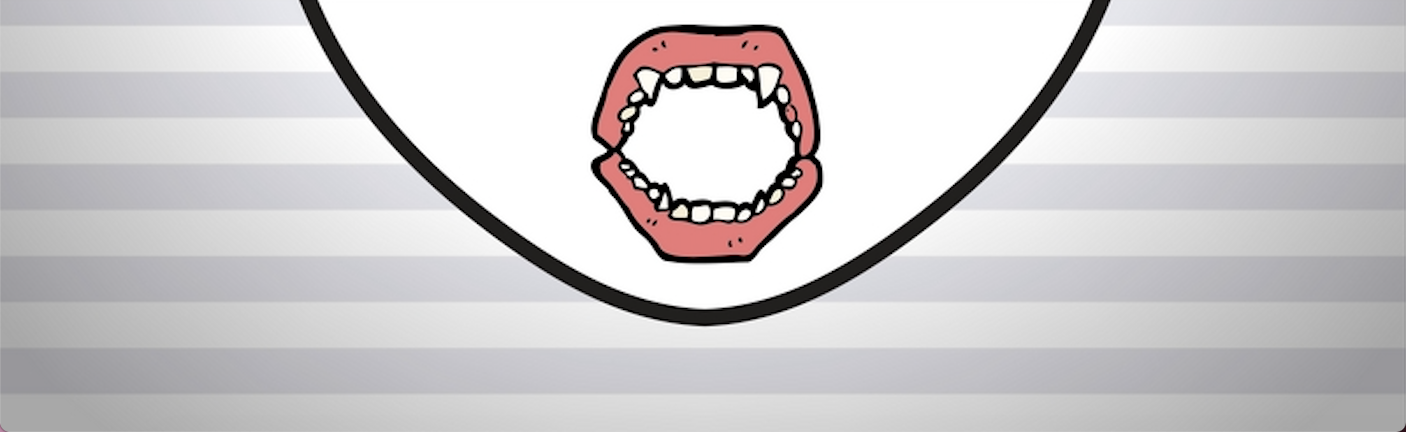
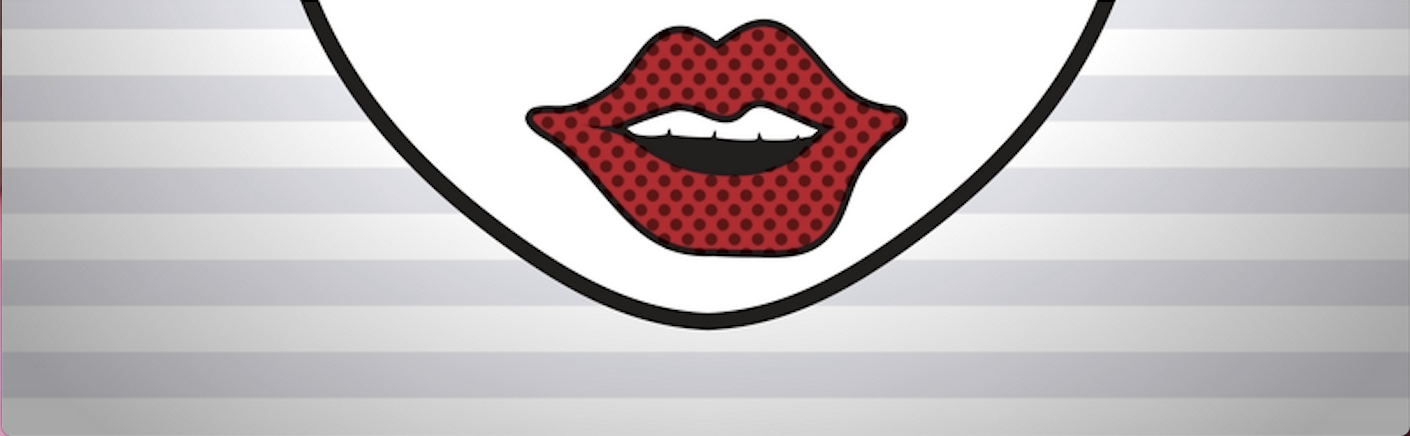
game works with new graphics

diff --git a/index.html b/index.html
@@ -50,14 +50,16 @@
         <img src="./images/icons/eye.png" alt="Eye">
         <select id="eyes-select" name="eyes" placeholder="eyes">
           <option value="eyesplaceholder" disabled selected>Select eyes</option>
-          <option value="eyes-1">Fluttery eyes</option>
+          <option value="eyes-1">Purple eyelashes</option>
           <option value="eyes-2">Blue eyes</option>
           <option value="eyes-3">Brown eyes</option>
-          <option value="eyes-4">Grey eyes</option>
+          <option value="eyes-4">Brown eyes with eyebrows</option>
           <option value="eyes-5">Green eyes</option>
-          <option value="eyes-6">Brown fluttery eyes</option>
+          <option value="eyes-6">Big blue eyes</option>
           <option value="eyes-7">Round blue eyes</option>
           <option value="eyes-8">Round green eyes</option>
+          <option value="eyes-9">Round brown eyes</option>
+          <option value="eyes-10">Big green eyes</option>
         </select>
       </form>
       <form>
@@ -72,6 +74,8 @@
         <option value="nose-6">Light pink nose</option>
         <option value="nose-7">Pointy black nose</option>
         <option value="nose-8">Pointy pink nose</option>
+        <option value="nose-9">Pointy pink nose</option>
+        <option value="nose-10">Pointy pink nose</option>
         </select>
       </form>
       <form>
@@ -87,6 +91,8 @@
         <option value="mouth-6">Small smile</option>
         <option value="mouth-7">Big smile</option>
         <option value="mouth-8">Sad face</option>
+        <option value="mouth-9">Sad face</option>
+        <option value="mouth-10">Sad face</option>
         </select>
       </form>
       <button class="submit">Accuse</button>

diff --git a/js/script.js b/js/script.js
@@ -35,8 +35,8 @@ $(function(){
   let compSetEyes = null;
   let compSetNose = null;
   let compSetMouth = null;
-  const picsCount = 8;
-  let timeRemaining = 120;
+  const picsCount = 10;
+  let timeRemaining = 90;
   let timerId = null;
   let score = 0;
 
@@ -70,7 +70,7 @@ $(function(){
 
   const refresh = function () {
     nextSuspect();
-    timeRemaining = 120;
+    timeRemaining = 90;
     score = 0;
   };
 
